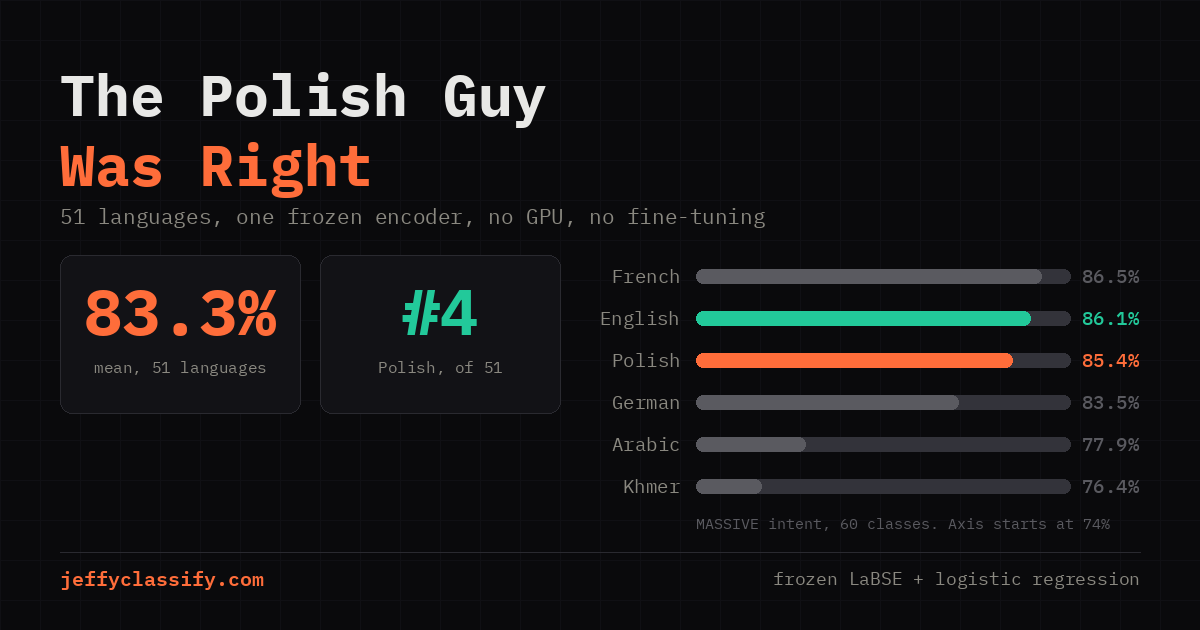
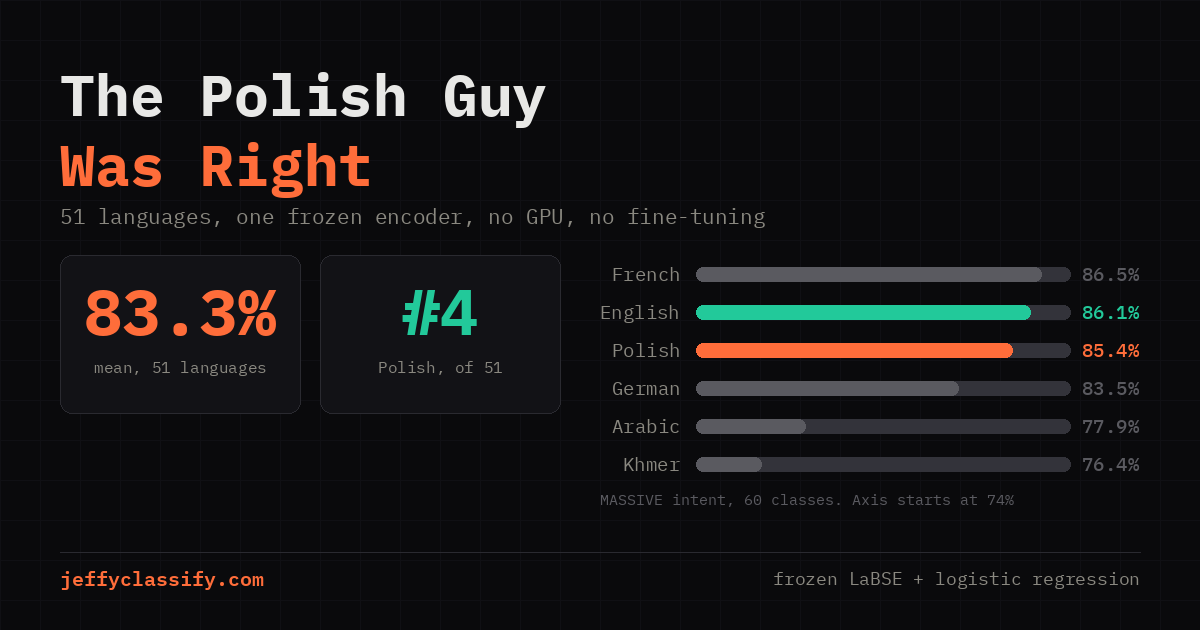
benchmark: correct the SetFit and FastText rows, in public
Our own classifier baselines did not reproduce. They were misconfigured in our
favour: FastText on library defaults (lr 0.1, 5 epochs) scored 1.1% on a
77-class problem, below the 1.3% chance rate, and SetFit ran with an
unidentified smaller model. Corrected they get 85.9% and 85.0%. qwen3-32B at 3%
is withdrawn rather than corrected. Jeffy's own numbers are unchanged.

The lead on banking77 is 8.4 points, not 40.

Dated correction blocks on /benchmark/ and on the post, rather than a quiet
edit: a table that silently changed is worth less than a correction a reader
can check. Charts and the scatter now use the corrected data, which moves
FastText into the top-left quadrant we claim, so the prose about the corners had
to change too.

New card at og-v2.png rather than overwriting og.png, because every platform
caches these for days and the old one has SetFit at 54% baked into it

Changed region(s): [[0.4933, 0.4825, 0.9558, 0.8444], [0.5242, 0.4222, 0.9558, 0.4524]]

diff --git a/benchmark/index.html b/benchmark/index.html
@@ -175,6 +175,11 @@ footer a:hover { text-decoration: underline; }
   border-radius: 6px; cursor: pointer;
 }
 .scatter-tabs button[aria-pressed="true"] { border-color: var(--accent); color: var(--accent); }
+.correction { background: var(--bg-r); border-left: 3px solid var(--phi); padding: 16px 18px; border-radius: 0 8px 8px 0; margin: 24px 0 8px; font-size: 0.88rem; line-height: 1.6; }
+.correction h3 { margin: 0 0 8px; font-size: 0.95rem; color: var(--phi); font-weight: 600; }
+.correction ul { margin: 8px 0 8px 18px; padding: 0; }
+.correction li { margin: 4px 0; }
+.correction a { color: var(--phi); }
 </style>
 
 <div class="hero">
@@ -187,10 +192,35 @@ footer a:hover { text-decoration: underline; }
   </p>
   <div class="kpi">
     <div><div class="v">94.3%</div><div class="l">Jeffy on 77 classes</div></div>
-    <div><div class="v" style="color:var(--phi)">80%</div><div class="l">Best competitor (77 cls)</div></div>
+    <div><div class="v" style="color:var(--phi)">85.9%</div><div class="l">Best competitor (77 cls)</div></div>
     <div><div class="v">130x</div><div class="l">Faster (banking77)</div></div>
     <div><div class="v">15</div><div class="l">Competitors tested</div></div>
   </div>
+</div>
+
+<div class="correction">
+  <h3>Correction, 26 Oct 2026: we re-ran our own baselines and they were too weak</h3>
+  <p style="margin:0 0 8px">
+    The SetFit and FastText numbers published here on 11 Oct did not reproduce. They were
+    misconfigured in our favour, and the corrected numbers are much stronger:
+  </p>
+  <ul>
+    <li><b>FastText</b> was run on library defaults (lr 0.1, 5 epochs) on a 77-class problem.
+      It scored 1.1%, below the 1.3% chance rate. Tuned, it gets <b>85.9%</b> on banking77</li>
+    <li><b>SetFit</b> was run with an unidentified smaller model. With the documented
+      <code>paraphrase-mpnet-base-v2</code> at 20 shots per class it gets <b>85.0%</b></li>
+    <li><b>qwen3-32B at 3%</b> is withdrawn, not corrected. It scores below a 0.5B model on
+      all three tasks, which is a parsing failure rather than a capability</li>
+    <li><b>Jeffy's own numbers are unchanged</b> and reproduce exactly</li>
+  </ul>
+  <p style="margin:8px 0 0">
+    So the lead on banking77 is <b>8.4 points, not 40</b>. The charts below use the corrected
+    numbers. The cause was publishing results with no runner script, so for two weeks nobody
+    could re-run them, including us. Full detail and the rules adopted since:
+    <a href="https://github.com/nicobrenner/jeffy/blob/main/benchmarks/CHANGELOG.md">benchmarks/CHANGELOG.md</a>
+    &middot; <a href="https://github.com/nicobrenner/jeffy/blob/main/benchmarks/classifier_baselines.py">the runner</a>
+    &middot; <a href="https://github.com/nicobrenner/jeffy/blob/main/data/eval_results/setfit_fasttext_benchmark_rerun.json">the results file</a>
+  </p>
 </div>
 
 <section>
@@ -203,10 +233,12 @@ footer a:hover { text-decoration: underline; }
     <div class="chart-box scatter-box"><canvas id="ch-scatter"></canvas></div>
   </div>
   <div class="callout">
-    <b>Read the corners.</b> FastText and SetFit sit far left and low: fast and wrong.
-    The big LLMs sit far right: slow, and on 77 classes not even accurate.
-    Jev is the only thing close to Jeffy on both axes, and it is a hosted API, so
-    your text leaves your machine and you pay per call.
+    <b>Read the corners.</b> The big LLMs sit far right: slow, and on 77 classes not even
+    accurate. FastText is the fastest thing here by two orders of magnitude and, tuned, it is
+    genuinely competitive on accuracy, but it ships an 800&nbsp;MB model for one task.
+    Jeffy and SetFit sit upper-left, and Jeffy serves all 70 heads from one shared encoder.
+    Jev is close on both axes and is a hosted API, so your text leaves your machine and you
+    pay per call.
   </div>
 </section>
 
@@ -219,10 +251,11 @@ footer a:hover { text-decoration: underline; }
     <div class="legend" id="lg-acc"></div>
   </div>
   <div class="callout">
-    <b>The crossover:</b> Between 2 and 4 classes, Jeffy overtakes all 15 competitors.
-    By 77 classes, even Jev — the leading hosted decision model — scores 80% vs Jeffy's 94%.
-    Open-source decision models fare worse: GLiNER 56%, Laya 38%.
-    SetFit drops to 54%. FastText barely registers at 1%.
+    <b>The crossover:</b> Between 2 and 4 classes, Jeffy overtakes every LLM and decision
+    model tested. By 77 classes, even Jev, the leading hosted decision model, scores 80% vs
+    Jeffy's 94.3%. Open-source decision models fare worse: GLiNER 56%, Laya 38%.
+    The two trained classifiers hold up far better than the rest: tuned FastText 85.9% and
+    SetFit 85.0%, which is an 8.4 point gap rather than a collapse.
   </div>
 </section>
 
@@ -244,7 +277,10 @@ footer a:hover { text-decoration: underline; }
   <h2>Full results by task</h2>
   <p class="sdesc">16 models: Jeffy, 10 LLMs (0.5B–32B via Ollama), 3 decision models (Jev, Laya, GLiNER2.5), SetFit, and FastText. 3 tasks, 100 samples each.
     LLMs prompted zero-shot at temperature 0. Jev via hosted API.
-    Decision models given the label set at call time. SetFit and FastText trained on the same data as Jeffy.</p>
+    Decision models given the label set at call time.
+    FastText trained on the same split as Jeffy; SetFit on 20 examples per class, because its
+    contrastive stage is quadratic in training-set size.
+    Classifier baselines are <b>benchmark v2</b> (2026-10-26); LLM and decision-model rows are v1.</p>
   <div class="tgrid" id="tables"></div>
 </section>
 
@@ -339,8 +375,8 @@ var TASKS = {
       { id: "phi_2.7b", acc: 0.30, lat: 231 },
       { id: "qwen2.5_0.5b", acc: 0.15, lat: 55 },
       { id: "qwen3_32b", acc: 0.03, lat: 9500 },
-      { id: "setfit", acc: 0.5425, lat: 6 },
-      { id: "fasttext", acc: 0.011, lat: 0.1 },
+      { id: "setfit", acc: 0.8497, lat: 46 },
+      { id: "fasttext", acc: 0.8588, lat: 0.01 },
       { id: "laya", acc: 0.38, lat: 815 },
       { id: "gliner", acc: 0.56, lat: 1672 },
       { id: "jev", acc: 0.80, lat: 134 }
@@ -360,8 +396,8 @@ var TASKS = {
       { id: "phi_2.7b", acc: 0.64, lat: 229 },
       { id: "qwen2.5_0.5b", acc: 0.57, lat: 50 },
       { id: "qwen3_32b", acc: 0.21, lat: 9900 },
-      { id: "setfit", acc: 0.859, lat: 9 },
-      { id: "fasttext", acc: 0.372, lat: 0.1 },
+      { id: "setfit", acc: 0.8679, lat: 41 },
+      { id: "fasttext", acc: 0.9170, lat: 0.01 },
       { id: "laya", acc: 0.94, lat: 273 },
       { id: "gliner", acc: 0.65, lat: 366 },
       { id: "jev", acc: 0.83, lat: 127 }
@@ -381,8 +417,8 @@ var TASKS = {
       { id: "phi4mini_3.8b", acc: 0.79, lat: 138 },
       { id: "qwen3_32b", acc: 0.59, lat: 16700 },
       { id: "qwen2.5_0.5b", acc: 0.50, lat: 51 },
-      { id: "setfit", acc: 0.8142, lat: 7 },
-      { id: "fasttext", acc: 0.5734, lat: 0.1 },
+      { id: "setfit", acc: 0.8716, lat: 36 },
+      { id: "fasttext", acc: 0.8200, lat: 0.01 },
       { id: "laya", acc: 0.83, lat: 220 },
       { id: "gliner", acc: 0.93, lat: 336 },
       { id: "jev", acc: 0.96, lat: 127 }
@@ -901,7 +937,7 @@ function drawScatter(taskId) {
       scales: {
         // Explicit bounds: Chart.js auto-ranges a log axis to the first point
         // and drops the rest, which hid 14 of 16 models.
-        x: { type: "logarithmic", min: 0.05, max: 40000,
+        x: { type: "logarithmic", min: 0.005, max: 40000,
              title: { display: true, text: "p50 latency per prediction, log scale (left is faster)", color: dim },
              ticks: { color: dim, autoSkip: false, maxRotation: 0, callback: function(v) {
                return [0.1, 1, 10, 100, 1000, 10000].indexOf(v) >= 0 ? fmtLat(v) : "";

diff --git a/blog/when-llms-fail-at-classification/index.html b/blog/when-llms-fail-at-classification/index.html
@@ -9,14 +9,14 @@
 <link rel="apple-touch-icon" href="/apple-touch-icon.png">
 <meta property="og:title" content="When LLMs Fail at Classification">
 <meta property="og:description" content="16 models benchmarked. On 77-class problems, Jeffy (embedding + LR) gets 94.3% while the best LLM gets 68%. Not close.">
-<meta property="og:image" content="https://jeffyclassify.com/blog/when-llms-fail-at-classification/og.png">
+<meta property="og:image" content="https://jeffyclassify.com/blog/when-llms-fail-at-classification/og-v2.png">
 <meta property="og:url" content="https://jeffyclassify.com/blog/when-llms-fail-at-classification/">
 <meta property="og:type" content="article">
 <meta property="og:site_name" content="Jeffy">
 <meta name="twitter:card" content="summary_large_image">
 <meta name="twitter:title" content="When LLMs Fail at Classification">
 <meta name="twitter:description" content="16 models benchmarked. On 77 classes, embedding + LR gets 94.3% vs best LLM at 68%.">
-<meta name="twitter:image" content="https://jeffyclassify.com/blog/when-llms-fail-at-classification/og.png">
+<meta name="twitter:image" content="https://jeffyclassify.com/blog/when-llms-fail-at-classification/og-v2.png">
 <link rel="stylesheet" href="https://fonts.googleapis.com/css2?family=IBM+Plex+Mono:wght@400;500;600&family=Source+Sans+3:ital,wght@0,400;0,600;0,700;1,400&display=swap">
 <script src="https://cdnjs.cloudflare.com/ajax/libs/Chart.js/4.4.1/chart.umd.min.js"></script>
 <style>
@@ -270,12 +270,35 @@ footer a:hover { color: var(--accent); }
   .stat-row { grid-template-columns: repeat(2, 1fr); }
   h1 { font-size: 1.3rem; }
 }
+.correction {
+  background: rgba(255,170,60,0.06);
+  border-left: 3px solid #e0a040;
+  padding: 14px 18px;
+  border-radius: 0 8px 8px 0;
+  margin: 22px 0 28px;
+  font-size: 0.88rem;
+  line-height: 1.6;
+}
+.correction b { color: #e0a040; }
+.correction a { color: #e0a040; }
 </style>
 </head>
 <body>
 
 <h1>When LLMs fail at classification</h1>
 <div class="dateline">Oct 2026 · Benchmark · Nico Brenner</div>
+
+<div class="correction">
+  <b>Correction, 26 Oct 2026.</b> The SetFit and FastText numbers in the original version of
+  this post were misconfigured, in our favour. FastText had been run on library defaults
+  (lr 0.1, 5 epochs) on a 77-class problem and scored 1.1%, below the 1.3% chance rate; tuned
+  it gets 85.9%. SetFit had been run with an unidentified smaller model; with the documented
+  base at 20 shots per class it gets 85.0%. The qwen3-32B row is withdrawn rather than
+  corrected. Jeffy's own numbers are unchanged. The charts and text below now use the
+  corrected figures, so the gap on banking77 is 8.4 points rather than 40, and the argument of
+  the post is about LLMs and decision models rather than about trained classifiers.
+  <a href="https://github.com/nicobrenner/jeffy/blob/main/benchmarks/CHANGELOG.md">What went wrong and what changed</a>
+</div>
 
 <p>
   I built <a href="https://github.com/nicobrenner/jeffy">Jeffy</a>, an open-source text classifier that uses BGE-large embeddings + logistic regression. I wanted to know how it actually compares to LLMs, decision models, and other classifiers
@@ -328,7 +351,7 @@ footer a:hover { color: var(--accent); }
 </div>
 
 <p>
-  SetFit (6ms) and FastText (&lt;1ms) are faster, but they trade too much accuracy for it. At 77 classes SetFit drops to 54% and FastText to 1%. Jev is the closest on both speed and accuracy (134ms, 80%), but it's a hosted API: your data leaves your machine and you pay per call. Jeffy runs entirely on your CPU
+  SetFit (46ms) and FastText (&lt;1ms) are the real competition here, and at 77 classes they land at 85.0% and 85.9% against Jeffy's 94.3%. FastText is the fastest thing in the benchmark by two orders of magnitude, and it ships an 800&nbsp;MB model to do one task. Jev is closest on both speed and accuracy (134ms, 80%), but it's a hosted API: your data leaves your machine and you pay per call. Jeffy runs entirely on your CPU
 </p>
 
 <h2>The setup</h2>
@@ -340,7 +363,7 @@ footer a:hover { color: var(--accent); }
   <li><strong>sst2</strong> - binary sentiment (2 classes). The easy one</li>
 </ul>
 <p>
-  100 held-out samples per task. All LLMs via Ollama on the same machine, temperature 0, prompted with "reply with ONLY the category name." Decision models get the label set at call time. Jeffy, SetFit, and FastText trained on standard training splits
+  100 held-out samples per task. All LLMs via Ollama on the same machine, temperature 0, prompted with "reply with ONLY the category name." Decision models get the label set at call time. Jeffy and FastText trained on standard training splits; SetFit on 20 examples per class, because its contrastive stage is quadratic in training-set size. Classifier numbers are benchmark v2, measured on the full evaluation splits
 </p>
 
 <h2>Full results by task</h2>
@@ -432,7 +455,7 @@ var TASKS = {
     { id: "gemma3_4b", acc: 0.64, lat: 956 },
     { id: "llama3.1_8b", acc: 0.62, lat: 8900 },
     { id: "gliner", acc: 0.56, lat: 1672 },
-    { id: "setfit", acc: 0.5425, lat: 6 },
+    { id: "setfit", acc: 0.8497, lat: 46 },
     { id: "phi4mini_3.8b", acc: 0.52, lat: 181 },
     { id: "llama3.2_3b", acc: 0.46, lat: 143 },
     { id: "mistral_7b", acc: 0.39, lat: 17000 },
@@ -440,12 +463,12 @@ var TASKS = {
     { id: "phi_2.7b", acc: 0.30, lat: 231 },
     { id: "qwen2.5_0.5b", acc: 0.15, lat: 55 },
     { id: "qwen3_32b", acc: 0.03, lat: 9500 },
-    { id: "fasttext", acc: 0.011, lat: 0.1 }
+    { id: "fasttext", acc: 0.8588, lat: 0.01 }
   ]},
   ag_news: { n: 4, cat: "topic", results: [
     { id: "laya", acc: 0.94, lat: 273 },
     { id: "jeffy", acc: 0.905, lat: 80 },
-    { id: "setfit", acc: 0.859, lat: 9 },
+    { id: "setfit", acc: 0.8679, lat: 41 },
     { id: "phi4_14b", acc: 0.83, lat: 493 },
     { id: "jev", acc: 0.83, lat: 127 },
     { id: "gemma4_9.6b", acc: 0.82, lat: 969 },
@@ -457,7 +480,7 @@ var TASKS = {
     { id: "gliner", acc: 0.65, lat: 366 },
     { id: "phi_2.7b", acc: 0.64, lat: 229 },
     { id: "qwen2.5_0.5b", acc: 0.57, lat: 50 },
-    { id: "fasttext", acc: 0.372, lat: 0.1 },
+    { id: "fasttext", acc: 0.9170, lat: 0.01 },
     { id: "qwen3_32b", acc: 0.21, lat: 9900 }
   ]},
   sst2: { n: 2, cat: "sentiment", results: [
@@ -471,11 +494,11 @@ var TASKS = {
     { id: "mistral_7b", acc: 0.86, lat: 8400 },
     { id: "laya", acc: 0.83, lat: 220 },
     { id: "phi_2.7b", acc: 0.83, lat: 255 },
-    { id: "setfit", acc: 0.8142, lat: 7 },
+    { id: "setfit", acc: 0.8716, lat: 36 },
     { id: "gemma4_9.6b", acc: 0.79, lat: 623 },
     { id: "phi4mini_3.8b", acc: 0.79, lat: 138 },
     { id: "qwen3_32b", acc: 0.59, lat: 16700 },
-    { id: "fasttext", acc: 0.5734, lat: 0.1 },
+    { id: "fasttext", acc: 0.8200, lat: 0.01 },
     { id: "qwen2.5_0.5b", acc: 0.50, lat: 51 }
   ]}
 };

diff --git a/tools/og/make_og.py b/tools/og/make_og.py
@@ -125,8 +125,10 @@ def draw_bars(draw, bars, x, y, w, accent, note=None, rng=None):
     value_w = max(text_w(draw, b.get("display", ""), vf) for b in bars) + 12
     track_x = x + label_w
     track_w = w - label_w - value_w
-    row_h = 42
-    bar_h = 15
+    # Tighten the rows as the list grows, so seven bars plus a note still clear
+    # the footer rule instead of printing over it.
+    row_h = 42 if len(bars) <= 5 else (38 if len(bars) == 6 else 34)
+    bar_h = 15 if len(bars) <= 6 else 13
 
     for i, b in enumerate(bars):
         cy = y + i * row_h + row_h // 2
@@ -155,9 +157,11 @@ def draw_bars(draw, bars, x, y, w, accent, note=None, rng=None):
 
     end = y + len(bars) * row_h
     if note:
-        nf = fit(draw, note, "Regular", 15, w)
-        draw.text((track_x, end + 6), note, font=nf, fill=PALETTE["dim"])
-        end += 26
+        # Anchored to the column's left edge and bounded by its full width;
+        # anchoring at track_x let a long note run off the card.
+        nf = fit(draw, note, "Regular", 15, w, min_size=10)
+        draw.text((x, end + 6), note, font=nf, fill=PALETTE["dim"])
+        end += 24
     return end
 
 
